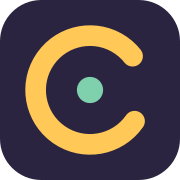
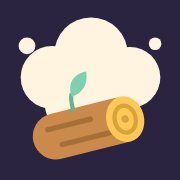
Rebrand the studio to Kawarimi Interactive
New log-and-smoke-puff mark, share image and icons; the studio name in headers,
titles and footers; Causality stays as the developer name. The phone header now
puts the menu on its own line.

Claude-Session: https://claude.ai/code/session_01S1vzQxL1yGUYwtoxYJWhmN

diff --git a/index.html b/index.html
@@ -3,33 +3,33 @@
 <head>
 <meta charset="utf-8">
 <meta name="viewport" content="width=device-width, initial-scale=1">
-<title>Causality: small, cozy games for Android</title>
-<meta name="description" content="Causality is a one-person indie studio making small, cozy games for Android: Farm Capitalist, Starfurrow and Bakery Bounce.">
+<title>Kawarimi Interactive: small, cozy games for Android</title>
+<meta name="description" content="Kawarimi Interactive is a one-person indie studio making small, cozy games for Android: Farm Capitalist, Starfurrow and Bakery Bounce.">
 <meta name="theme-color" content="#2B2440">
 <link rel="canonical" href="https://causalityviolation.github.io/">
 <meta property="og:type" content="website">
-<meta property="og:title" content="Causality: small, cozy games for Android">
+<meta property="og:title" content="Kawarimi Interactive: small, cozy games for Android">
 <meta property="og:description" content="Farm Capitalist, Starfurrow and Bakery Bounce.">
 <meta property="og:url" content="https://causalityviolation.github.io/">
 <meta property="og:image" content="https://causalityviolation.github.io/assets/og.jpg">
 <meta property="og:image:width" content="1200">
 <meta property="og:image:height" content="627">
-<meta property="og:image:alt" content="Causality: small, cozy games for Android. Farm Capitalist, Starfurrow and Bakery Bounce.">
+<meta property="og:image:alt" content="Kawarimi Interactive: small, cozy games for Android. Farm Capitalist, Starfurrow and Bakery Bounce.">
 <meta name="twitter:card" content="summary_large_image">
 <link rel="icon" href="assets/mark.svg" type="image/svg+xml">
 <link rel="apple-touch-icon" href="assets/apple-touch-icon.png">
-<link rel="stylesheet" href="assets/site.css?v=3">
+<link rel="stylesheet" href="assets/site.css?v=4">
 </head>
 <body>
 <header class="top">
-  <a class="brand" href="./"><img src="assets/mark.svg" alt="">Causality</a>
+  <a class="brand" href="./"><img src="assets/mark.svg" alt="">Kawarimi Interactive</a>
   <nav><a href="#games">Games</a><a href="#about">About</a><a href="#support">Support</a><a href="mailto:dev.causality@gmail.com">Contact</a></nav>
 </header>
 <main class="wrap">
   <section class="hero">
     <p class="eyebrow">Indie games for Android</p>
     <h1>Small, cozy games<br>you can play anywhere.</h1>
-    <p class="lead">Causality is a one-person studio. Every game is free to play, works without an account, and only shows ads you choose to watch.</p>
+    <p class="lead">Kawarimi Interactive is a one-person studio, run by Causality. Every game is free to play, works without an account, and only shows ads you choose to watch.</p>
   </section>
 
   <section class="games" id="games" aria-label="Games">
@@ -57,20 +57,20 @@
   </section>
 
   <section class="about" id="about">
-    <h2>About Causality</h2>
+    <h2>About the studio</h2>
     <p>I make the kind of games I like to play on the bus: easy to pick up, kind to your time and wallet, and nice to look at. No accounts needed, progress saved on your phone, and ads only when you ask for a reward.</p>
     <p>Questions, feedback or press: <a href="mailto:dev.causality@gmail.com">dev.causality@gmail.com</a></p>
   </section>
 
   <section class="about support" id="support">
-    <h2>Support Causality</h2>
+    <h2>Support the studio</h2>
     <p>Every game here is free, and I want to keep it that way. If you enjoy them and want to help, you can buy me a coffee on Ko-fi. It goes towards art, music, test phones and the time to keep adding new levels. Thank you!</p>
     <p class="support-cta"><a class="btn kofi" href="https://ko-fi.com/causality_violation" target="_blank" rel="noopener"><svg viewBox="0 0 24 24" width="22" height="22" aria-hidden="true"><path d="M4 8h12v6a5 5 0 0 1-5 5H9a5 5 0 0 1-5-5z" fill="#fff"/><path d="M16 9.5h1.5a2.5 2.5 0 0 1 0 5H16" fill="none" stroke="#fff" stroke-width="2"/><path d="M10 11.2c-1-.9-2.4-.1-1.8 1 .4.8 1.8 1.8 1.8 1.8s1.4-1 1.8-1.8c.6-1.1-.8-1.9-1.8-1z" fill="#FF5E5B"/></svg>Buy me a coffee on Ko-fi</a></p>
   </section>
 </main>
 <footer>
   <p>Privacy: <a href="FarmCapPrivacy/">Farm Capitalist</a> · <a href="StarfurrowPrivacy/">Starfurrow</a> · <a href="bakery-bounce/privacy.html">Bakery Bounce</a></p>
-  <p>Made by Causality · Google Play is a trademark of Google LLC.</p>
+  <p>Made by Kawarimi Interactive · Google Play is a trademark of Google LLC.</p>
 </footer>
 </body>
 </html>

diff --git a/bakery-bounce/index.html b/bakery-bounce/index.html
@@ -8,12 +8,12 @@
 <meta name="theme-color" content="#FFD9E4">
 <link rel="canonical" href="https://causalityviolation.github.io/bakery-bounce/">
 <link rel="icon" href="https://play-lh.googleusercontent.com/NMfr8C0IvxE5GQSB8NGX61_Qws9JCq01w7_ACsa8c0shawAAW9yx2tbGkLY0njZMoUV9kvyuBHMN2x_uiecrIA=w96-h96">
-<link rel="stylesheet" href="../assets/site.css?v=2">
+<link rel="stylesheet" href="../assets/site.css?v=4">
 <style>body{background:linear-gradient(#FFE3EC,#FFF9F0 520px)}</style>
 </head>
 <body>
 <header class="top">
-  <a class="brand" href="../"><img src="../assets/mark.svg" alt="">Causality</a>
+  <a class="brand" href="../"><img src="../assets/mark.svg" alt="">Kawarimi Interactive</a>
   <nav><a href="../#games">All games</a><a href="privacy.html">Privacy</a></nav>
 </header>
 <main class="wrap">
@@ -41,8 +41,8 @@
   </section>
 </main>
 <footer>
-  <p><a href="privacy.html">Privacy Policy</a> · Contact: <a href="mailto:dev.causality@gmail.com">dev.causality@gmail.com</a> · <a href="../">More games by Causality</a></p>
-  <p>Made by Causality · Google Play is a trademark of Google LLC.</p>
+  <p><a href="privacy.html">Privacy Policy</a> · Contact: <a href="mailto:dev.causality@gmail.com">dev.causality@gmail.com</a> · <a href="../">More games by Kawarimi Interactive</a></p>
+  <p>Made by Kawarimi Interactive · Google Play is a trademark of Google LLC.</p>
 </footer>
 </body>
 </html>

diff --git a/starfurrow/index.html b/starfurrow/index.html
@@ -15,12 +15,12 @@
 <meta name="twitter:card" content="summary_large_image">
 <link rel="icon" type="image/png" href="assets/icon-96.png">
 <link rel="apple-touch-icon" href="assets/apple-touch-icon.png">
-<link rel="stylesheet" href="../assets/site.css?v=2">
+<link rel="stylesheet" href="../assets/site.css?v=4">
 <style>body{background:linear-gradient(#CDEBFF,#FFF9F0 520px)}</style>
 </head>
 <body>
 <header class="top">
-  <a class="brand" href="../"><img src="../assets/mark.svg" alt="">Causality</a>
+  <a class="brand" href="../"><img src="../assets/mark.svg" alt="">Kawarimi Interactive</a>
   <nav><a href="../#games">All games</a><a href="https://causalityviolation.github.io/StarfurrowPrivacy/">Privacy</a></nav>
 </header>
 <main class="wrap">
@@ -72,7 +72,7 @@
 </main>
 <footer>
   <p><a href="https://causalityviolation.github.io/StarfurrowPrivacy/">Privacy Policy</a> · Contact: <a href="mailto:dev.causality@gmail.com">dev.causality@gmail.com</a> · <a href="../">More games by Causality</a></p>
-  <p>Made by Causality · Google Play is a trademark of Google LLC.</p>
+  <p>Made by Kawarimi Interactive · Google Play is a trademark of Google LLC.</p>
 </footer>
 </body>
 </html>

diff --git a/assets/site.css b/assets/site.css
@@ -1,4 +1,4 @@
-/* Causality: shared styles for the studio page and the game pages. One file, no frameworks. */
+/* Kawarimi Interactive: shared styles for the studio page and the game pages. One file, no frameworks. */
 @font-face{font-family:Fredoka;font-weight:500;font-display:swap;src:url(fredoka-latin-500-normal.woff2) format("woff2")}
 @font-face{font-family:Fredoka;font-weight:600;font-display:swap;src:url(fredoka-latin-600-normal.woff2) format("woff2")}
 @font-face{font-family:Fredoka;font-weight:700;font-display:swap;src:url(fredoka-latin-700-normal.woff2) format("woff2")}
@@ -73,3 +73,6 @@ section h2.sec{font-size:30px;margin:10px 0 16px}
 .support-cta{margin-top:16px!important}
 .btn.kofi{display:inline-flex;align-items:center;gap:10px;background:#FF5E5B;box-shadow:0 3px 0 #D9443F}
 .btn.kofi:hover{background:#F04F4C}
+/* the studio name is long: on phones the menu goes on its own line under it */
+.brand{white-space:nowrap}
+@media (max-width:640px){.top{flex-wrap:wrap;row-gap:10px}.top nav{width:100%;display:flex;flex-wrap:wrap;gap:4px 18px}.top nav a{margin-left:0}}

diff --git a/bakery-bounce/privacy.html b/bakery-bounce/privacy.html
@@ -5,11 +5,11 @@
 <meta name="viewport" content="width=device-width, initial-scale=1">
 <title>Bakery Bounce: Privacy Policy</title>
 <link rel="canonical" href="https://causalityviolation.github.io/bakery-bounce/privacy.html">
-<link rel="stylesheet" href="../assets/site.css?v=2">
+<link rel="stylesheet" href="../assets/site.css?v=4">
 </head>
 <body>
 <header class="top">
-  <a class="brand" href="../"><img src="../assets/mark.svg" alt="">Causality</a>
+  <a class="brand" href="../"><img src="../assets/mark.svg" alt="">Kawarimi Interactive</a>
   <nav><a href="./">Bakery Bounce</a></nav>
 </header>
 <main class="policy">

diff --git a/README.md b/README.md
@@ -1,6 +1,6 @@
 # causalityviolation.github.io
 
-The Causality studio site (GitHub Pages, served from the root of this repo).
+The Kawarimi Interactive studio site (made by Causality) (GitHub Pages, served from the root of this repo).
 
 - `index.html`: the studio page with all games
 - `starfurrow/`: Starfurrow's page (its privacy policy stays at /StarfurrowPrivacy/)
